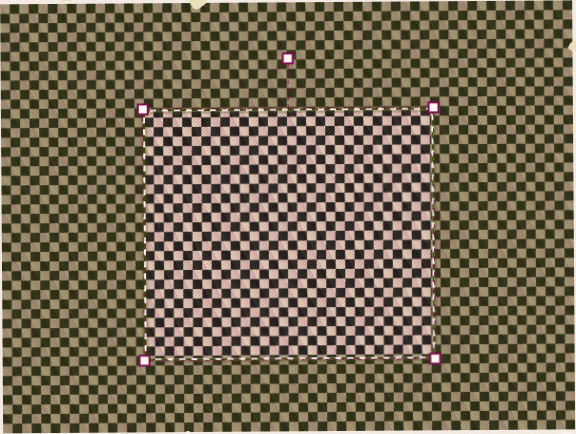
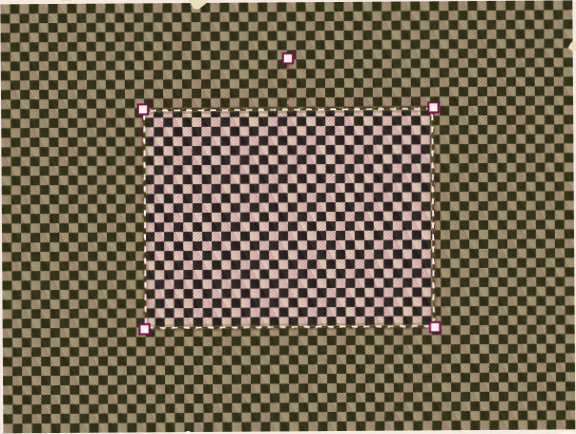
FIX: the sticker maker's keyboard-shortcuts note never opens by itself, so nothing moves while someone circles the photo

Changed region(s): [[0.2188, 0.5991, 0.7812, 0.8387]]

diff --git a/e2e/cutter-keyboard.spec.ts b/e2e/cutter-keyboard.spec.ts
@@ -129,16 +129,35 @@ test.describe("touch screen", () => {
 
 test.describe("mouse and keyboard", () => {
   test.use({ viewport: { width: 1280, height: 800 } });
-  test("the shortcuts are a closed disclosure that opens when the photo has focus", async ({
+  test("the shortcuts are a closed disclosure that only the person opens: focusing or drawing on the photo never moves anything", async ({
     page,
   }) => {
     await signUp(page, "Mouse");
     const maker = await openCutter(page);
     const summary = maker.getByText("Keyboard shortcuts");
+    const help = maker.locator(".zf-keys-help");
     await expect(summary).toBeVisible();
-    await expect(maker.locator(".zf-keys-help")).not.toHaveAttribute("open", "");
-    await page.getByRole("application").focus();
-    await expect(maker.locator(".zf-keys-help")).toHaveAttribute("open", "");
-    await expect(maker.locator(".zf-keys-help p")).toBeVisible();
+    await expect(help).not.toHaveAttribute("open", "");
+    const photo = page.getByRole("application");
+    const before = (await photo.boundingBox())!;
+    // focus by keyboard and by drawing on the photo: still closed, nothing moves
+    await photo.focus();
+    const box = (await page.getByTestId("lasso-well").boundingBox())!;
+    await page.mouse.move(box.x + box.width * 0.3, box.y + box.height * 0.3);
+    await page.mouse.down();
+    await page.mouse.move(box.x + box.width * 0.6, box.y + box.height * 0.5, {
+      steps: 6,
+    });
+    await page.mouse.up();
+    await page.waitForTimeout(600);
+    await expect(help).not.toHaveAttribute("open", "");
+    expect(await photo.boundingBox()).toEqual(before);
+    // the person opens it, and it stays as they leave it
+    await summary.click();
+    await expect(help).toHaveAttribute("open", "");
+    await expect(help.locator("p")).toBeVisible();
+    await summary.click();
+    await page.mouse.click(box.x + box.width * 0.5, box.y + box.height * 0.5);
+    await expect(help).not.toHaveAttribute("open", "");
   });
 });

diff --git a/src/features/stickers/editor/components/LassoCanvas.tsx b/src/features/stickers/editor/components/LassoCanvas.tsx
@@ -51,7 +51,6 @@ export function LassoCanvas() {
   const [ref, width] = useElementWidth<HTMLDivElement>();
   const input = useRef<HTMLInputElement>(null);
   const [over, setOver] = useState(false);
-  const [keysOpen, setKeysOpen] = useState(false);
 
   const pick = (file?: File | null) => {
     if (file) void intake(file);
@@ -69,10 +68,6 @@ export function LassoCanvas() {
             setOver(true);
           }}
           onDragLeave={() => setOver(false)}
-          // the shortcuts open once, the first time the photo takes keyboard focus
-          onFocus={(e) => {
-            if (e.target.getAttribute("role") === "application") setKeysOpen(true);
-          }}
           onDrop={(e) => {
             e.preventDefault();
             setOver(false);
@@ -185,13 +180,10 @@ export function LassoCanvas() {
           <p id="maker-keys" className="sr-only">
             {t("maker.hint.keys")}
           </p>
-          {/* sighted keyboard users get them as a disclosure that opens once the photo has focus;
+          {/* sighted keyboard users get them as a disclosure that only they open (it never opens by
+              itself: focusing or drawing on the photo must not move the page under the pointer);
               touch screens (pointer: coarse) do not show it, the hint beside the tools says what to do */}
-          <details
-            className="zf-keys-help"
-            open={keysOpen}
-            onToggle={(e) => setKeysOpen(e.currentTarget.open)}
-          >
+          <details className="zf-keys-help">
             <summary>{t("maker.hint.keysTitle")}</summary>
             <p aria-hidden="true">{t("maker.hint.keys")}</p>
           </details>

diff --git a/CHANGELOG.md b/CHANGELOG.md
@@ -1,5 +1,11 @@
 # Changelog
 
+## Unreleased
+
+### Fixes
+
+- **The "Keyboard shortcuts" note in the sticker maker no longer opens by itself.** It used to open when the photo took focus (a moment after the dialog opened, and again after every click or stroke on the photo once closed), which moved the layout under someone already circling the photo. It now stays closed until the person opens it, and stays as they leave it. Screen readers still get the same text (always in the page, `#maker-keys`), and a keyboard user sees the "Keyboard shortcuts" line to open.
+
 ## v1.7.5 – 2026-10-06
 
 No rules change in this release.
